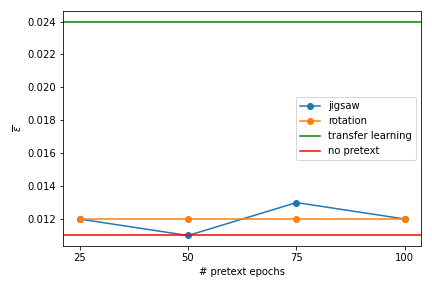
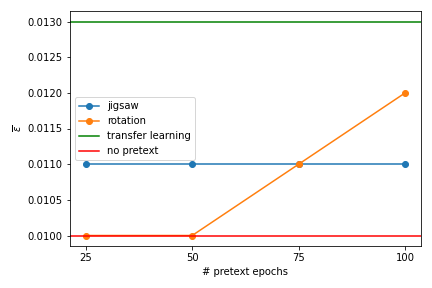
new results

diff --git a/paper/results.tex b/paper/results.tex
@@ -5,11 +5,10 @@
         \hline
         Pretext epochs & Accuracy, \% & Miss classification rate, \% & $\overline{\epsilon}$ \\
         \hline
-        25             & 43.984       & 95.915                       & 0.012                 \\
-        50             & 43.438       & 97.482                       & 0.011                 \\
-        \rowcolor{yellow}
-        75             & 43.281       & 93.141                       & 0.013                 \\
-        100            & 42.188       & 95.000                       & 0.012                 \\
+        25             & 44.531       & 92.982                       & 0.011                 \\
+        50             & 43.945       & 93.556                       & 0.011                 \\
+        75             & 46.094       & 95.127                       & 0.011                 \\
+        100            & 46.094       & 93.220                       & 0.011                 \\
         \hline
     \end{tabular}
     \caption{\label{tab:table-1}Results for jigsaw pretext task}
@@ -22,11 +21,10 @@
         \hline
         Pretext epochs & Accuracy, \% & Miss classification rate, \% & $\overline{\epsilon}$ \\
         \hline
-        25             & 44.219       & 96.643                       & 0.012                 \\
-        50             & 44.141       & 97.876                       & 0.012                 \\
-        \rowcolor{yellow}
-        75             & 46.953       & 95.674                       & 0.012                 \\
-        100            & 44.531       & 97.544                       & 0.012                 \\
+        25             & 45.605       & 98.501                       & 0.010                 \\
+        50             & 40.332       & 99.274                       & 0.010                 \\
+        75             & 44.922       & 98.913                       & 0.011                 \\
+        100            & 42.773       & 96.575                       & 0.012                 \\
         \hline
     \end{tabular}
     \caption{\label{tab:table-2}Results for rotation pretext task}
@@ -37,10 +35,10 @@
         \hline
         Pretext task\textbackslash Pre-training & Accuracy, \% & Miss classification rate, \% & $\overline{\epsilon}$ \\
         \hline
-        ImageNet                                & 65.156       & 94.245                       & 0.024                 \\
-        None                                    & 39.922       & 99.413                       & 0.011                 \\
-        rotation                                & 46.953       & 95.674                       & 0.012                 \\
-        jigsaw                                  & 43.984       & 93.141                       & 0.013                 \\
+        ImageNet                                & 64.375       & 92.112                       & 0.013                 \\
+        None                                    & 38.906       & 99.598                       & 0.010                 \\
+        rotation                                &              &                              &                       \\
+        jigsaw                                  &              &                              &                       \\
         \hline
     \end{tabular}
     \caption{\label{tab:table-3}Comparison of best results among different pretext tasks, pre-training}

diff --git a/impl/main.py b/impl/main.py
@@ -1,7 +1,7 @@
 import argparse
-from util.tpu import init_tpu
+from util.utils import init_tpu
 from util.evaluation import eval_no_pretext, eval_jigsaw, eval_rotation, eval_eff_net_pre_trained, find_opt_down_epochs
-from util.config import EVALUATION_ITERATIONS, PRETEXT_EPOCHS, DOWNSTREAM_EPOCHS, OPTIMAL_DOWNSTREAM_EPOCHS
+from util.config import PRETEXT_EPOCHS, DOWNSTREAM_EPOCHS, OPTIMAL_DOWNSTREAM_EPOCHS
 
 
 def main(task, iterations, pretext_epochs, downstream_epochs, opt_downstream_ep):
@@ -64,7 +64,7 @@ def parse_args():
         '--iterations',
         type=int,
         help='Iterations to eval',
-        default=EVALUATION_ITERATIONS
+        default=1
     )
     parser.add_argument(
         '--pretext-epochs',

diff --git a/impl/util/utils.py b/impl/util/utils.py
@@ -5,6 +5,21 @@ from .config import BATCH_SIZE
 import tensorflow as tf
 
 
+def cpu_strategy():
+    return tf.distribute.OneDeviceStrategy(device="/cpu:0")
+
+
+def init_tpu():
+    print('Connecting to TPU')
+    tpu = tf.distribute.cluster_resolver.TPUClusterResolver()  # TPU detection
+    print('Running on TPU ', tpu.cluster_spec().as_dict()['worker'])
+
+    tf.config.experimental_connect_to_cluster(tpu)
+    tf.tpu.experimental.initialize_tpu_system(tpu)
+    strategy = tf.distribute.experimental.TPUStrategy(tpu)
+    return strategy
+
+
 def show_image(img: np.ndarray):
     """
     :param img: single image as np array

diff --git a/impl/util/config.py b/impl/util/config.py
@@ -7,7 +7,6 @@ BATCH_SIZE = 128
 
 MONGO_URI = os.environ['MONGO_URI']
 
-EVALUATION_ITERATIONS = 5
 DOWNSTREAM_EPOCHS = [
     10,
     20,
